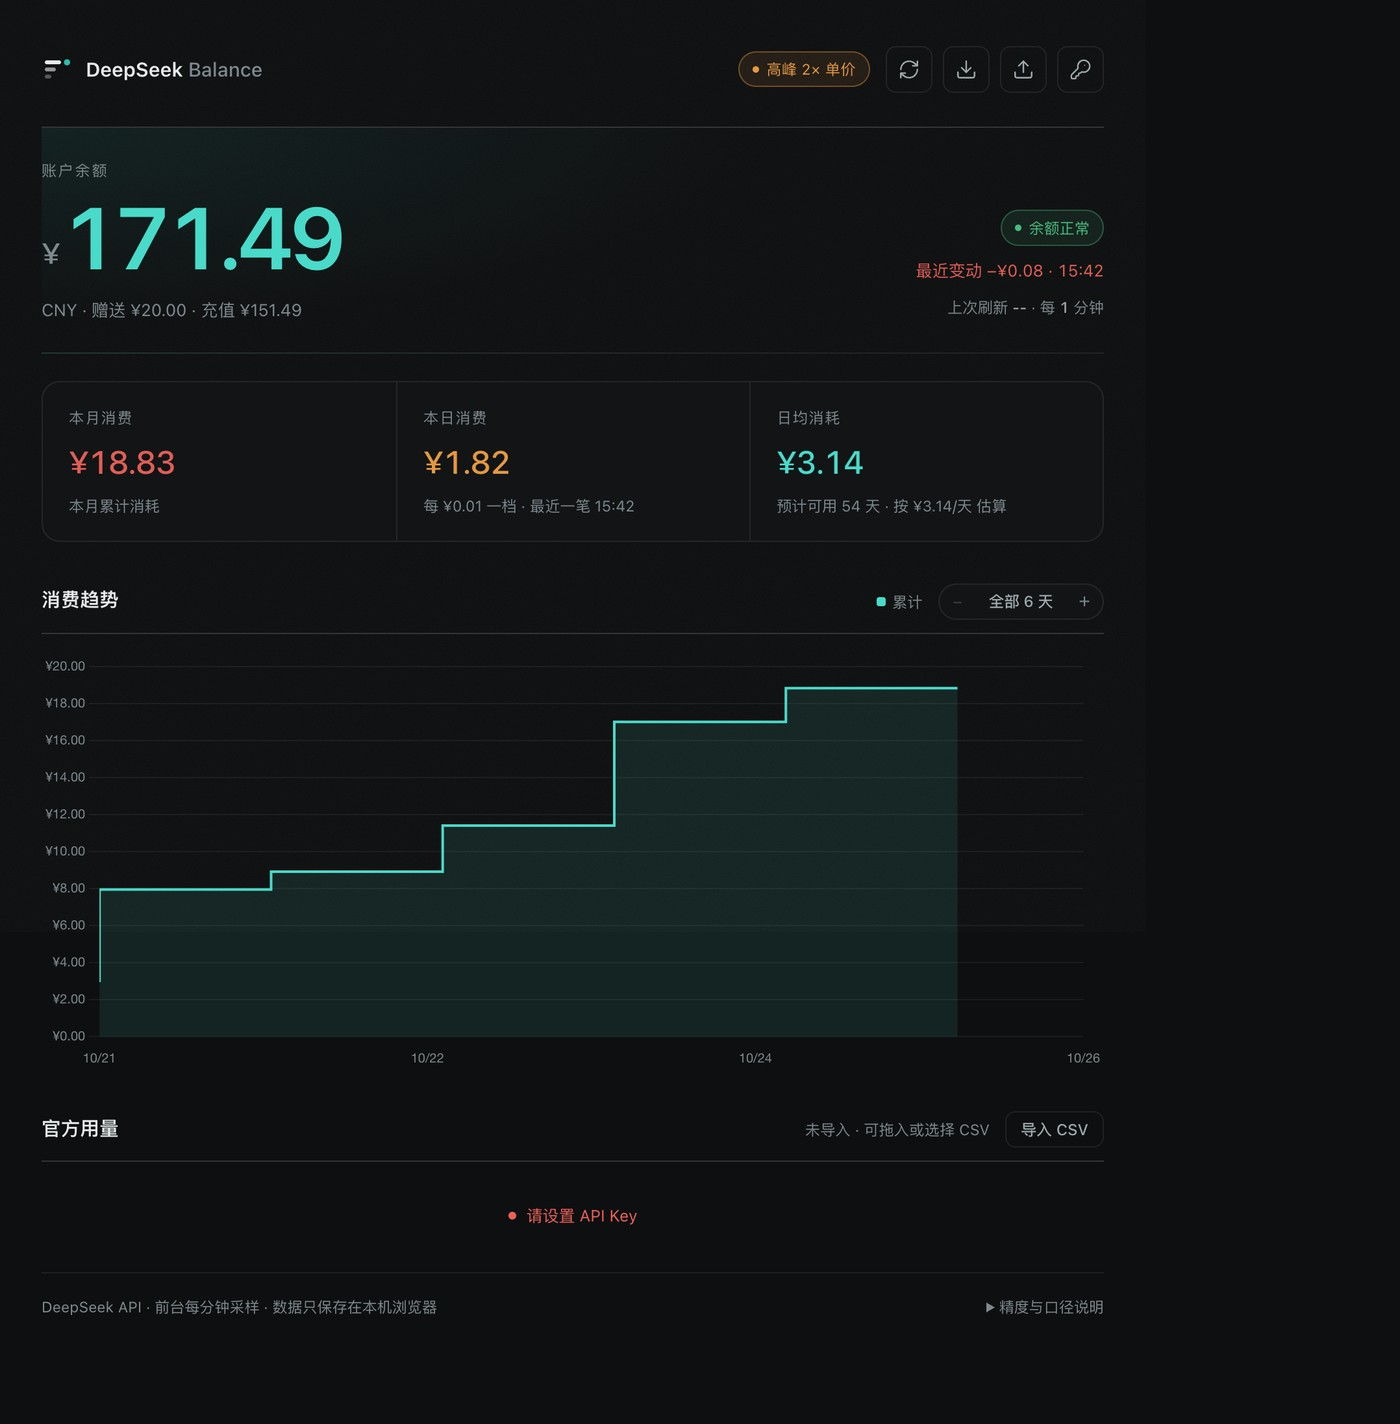
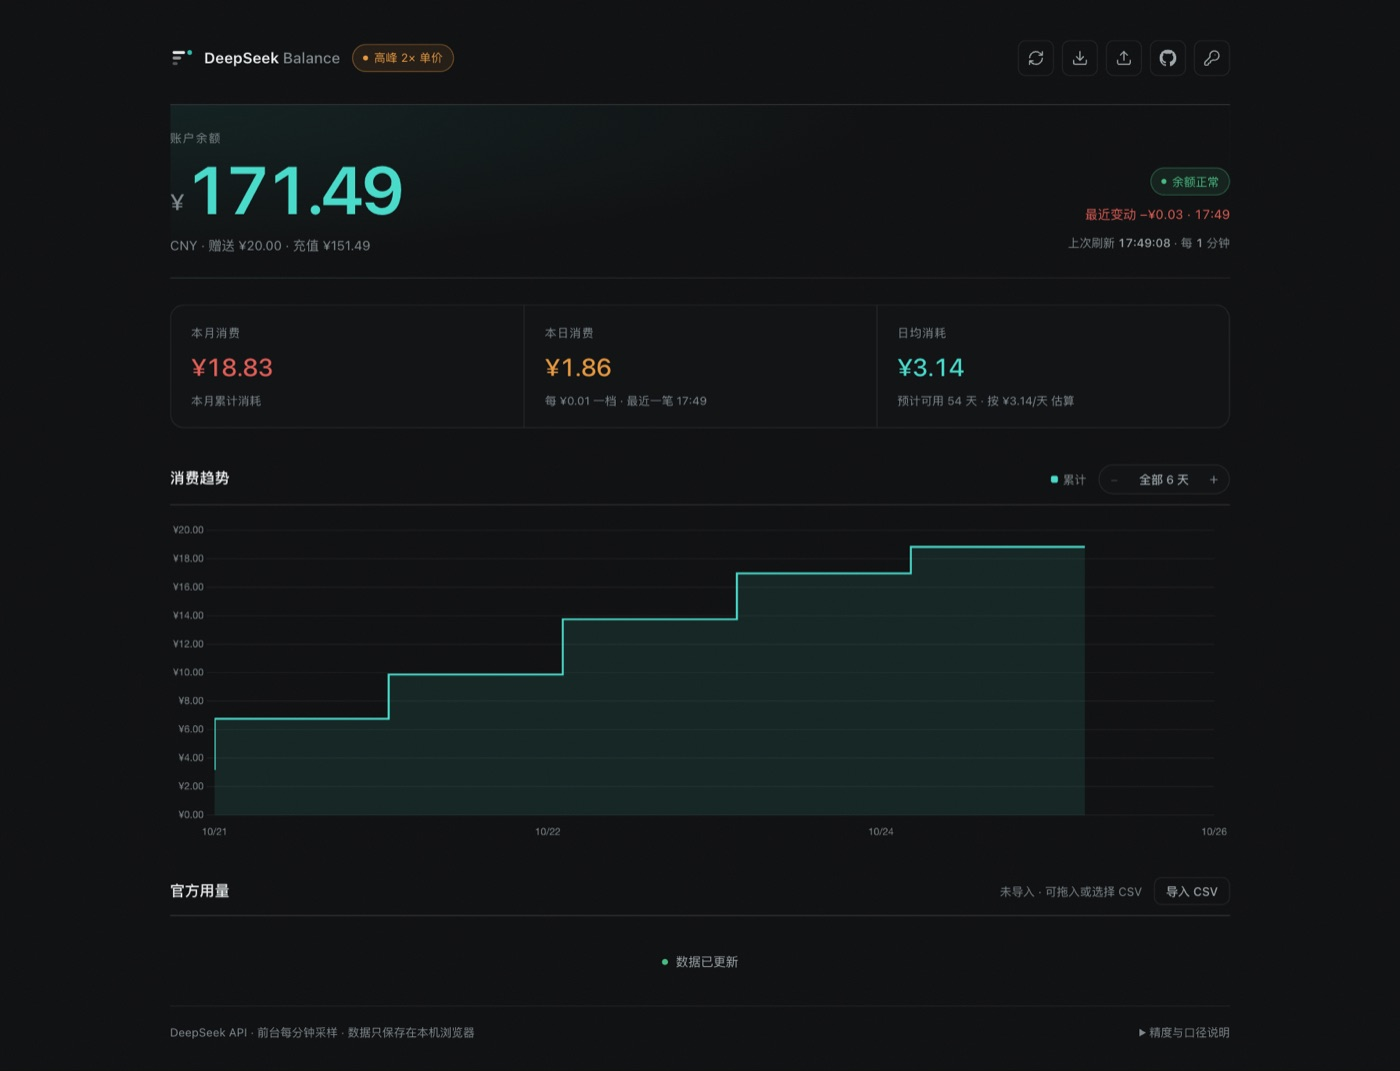
feat: 顶栏加入 GitHub 源码入口
- 导入按钮右侧加 octocat 图标链接，新标签页打开仓库
  （target=_blank + rel="noopener noreferrer"，附 aria-label 与键盘焦点样式）
- 图标增至 5 个后窄屏会溢出：顶栏左侧改为「品牌 + 时段徽章」一组、
  图标一组，图标组允许换行且始终贴右边缘；320px 下收紧品牌字号与间距，
  品牌与徽章仍保持同一行，顶栏不会变成三行
- 重拍 README 预览图，与新顶栏保持一致（1400×1071，100 KB）

diff --git a/index.html b/index.html
@@ -78,12 +78,14 @@
     flex-wrap: wrap;
     margin-bottom: clamp(18px, 3vw, 28px);
   }
+  .topbar__lead { display: flex; align-items: center; gap: 12px; flex-wrap: wrap; min-width: 0; }
   .brand { display: flex; align-items: center; gap: 10px; }
   .brand__mark { width: 24px; height: 24px; flex: none; color: var(--ink); }
   .brand__spark { fill: var(--accent); }
   .brand__name { font-size: 0.95rem; font-weight: 600; letter-spacing: 0.01em; }
   .brand__suffix { color: var(--ink-3); font-weight: 500; }
-  .topbar__actions { display: flex; align-items: center; gap: 8px; }
+  /* 图标多了以后窄屏放不下：允许换行，并始终贴着右边缘，别把按钮挤出屏幕 */
+  .topbar__actions { display: flex; align-items: center; justify-content: flex-end; gap: 8px; flex-wrap: wrap; margin-left: auto; }
 
   .ibtn {
     display: inline-flex;
@@ -102,6 +104,8 @@
   }
   .ibtn svg { width: 17px; height: 17px; }
   .ibtn:hover { color: var(--ink); border-color: var(--line-2); background: var(--surface); }
+  .ibtn--link { text-decoration: none; }
+  .ibtn--link:focus-visible { outline: 2px solid var(--accent); outline-offset: 2px; }
   .ibtn:active { transform: translateY(1px); }
   .ibtn.is-busy svg { animation: spin 900ms linear infinite; }
   @media (pointer: coarse) { .ibtn { width: 44px; height: 44px; } }
@@ -117,7 +121,6 @@
     letter-spacing: 0.02em;
     color: var(--ink-2);
     white-space: nowrap;
-    margin-right: 4px;
   }
   .peak::before { content: ""; width: 5px; height: 5px; border-radius: 50%; background: currentColor; }
   .peak--on { color: var(--amber); border-color: rgba(232, 163, 61, 0.38); background: rgba(232, 163, 61, 0.1); }
@@ -654,6 +657,14 @@
     .alert-row .btn { flex: 1 1 auto; }
   }
 
+  /* 320px 这一档：品牌与时段徽章挤在一行，避免顶栏变成三行 */
+  @media (max-width: 400px) {
+    .topbar { gap: 10px; }
+    .topbar__lead { gap: 6px; }
+    .brand__name { font-size: 0.9rem; }
+    .peak { padding: 4px 8px; font-size: 0.7rem; }
+  }
+
   @media (prefers-reduced-motion: reduce) {
     *, *::before, *::after {
       animation-duration: 0.001ms !important;
@@ -700,17 +711,19 @@
 
 <div class="shell">
   <header class="topbar">
-    <div class="brand">
-      <svg class="brand__mark" viewBox="0 0 24 24" aria-hidden="true">
-        <rect x="2.5" y="5" width="12.5" height="3" rx="1.5" fill="currentColor"></rect>
-        <rect x="2.5" y="10.5" width="8.5" height="3" rx="1.5" fill="currentColor" opacity=".6"></rect>
-        <rect x="2.5" y="16" width="5" height="3" rx="1.5" fill="currentColor" opacity=".32"></rect>
-        <circle class="brand__spark" cx="19.6" cy="6.5" r="2.4"></circle>
-      </svg>
-      <span class="brand__name">DeepSeek <span class="brand__suffix">Balance</span></span>
+    <div class="topbar__lead">
+      <div class="brand">
+        <svg class="brand__mark" viewBox="0 0 24 24" aria-hidden="true">
+          <rect x="2.5" y="5" width="12.5" height="3" rx="1.5" fill="currentColor"></rect>
+          <rect x="2.5" y="10.5" width="8.5" height="3" rx="1.5" fill="currentColor" opacity=".6"></rect>
+          <rect x="2.5" y="16" width="5" height="3" rx="1.5" fill="currentColor" opacity=".32"></rect>
+          <circle class="brand__spark" cx="19.6" cy="6.5" r="2.4"></circle>
+        </svg>
+        <span class="brand__name">DeepSeek <span class="brand__suffix">Balance</span></span>
+      </div>
+      <span class="peak peak--off" id="peakBadge" title="官方：高峰 = 北京时间周一至周五 09:00-12:00 / 14:00-18:00（不含法定节假日），空闲价为高峰的一半">时段</span>
     </div>
     <div class="topbar__actions">
-      <span class="peak peak--off" id="peakBadge" title="官方：高峰 = 北京时间周一至周五 09:00-12:00 / 14:00-18:00（不含法定节假日），空闲价为高峰的一半">时段</span>
       <button class="ibtn" id="refreshBtn" onclick="manualRefresh()" title="立即刷新余额" aria-label="立即刷新余额">
         <svg viewBox="0 0 24 24" fill="none" stroke="currentColor" stroke-width="1.7" stroke-linecap="round" stroke-linejoin="round" aria-hidden="true"><path d="M3 12a9 9 0 0 1 15-6.7L21 8"></path><path d="M21 3v5h-5"></path><path d="M21 12a9 9 0 0 1-15 6.7L3 16"></path><path d="M3 21v-5h5"></path></svg>
       </button>
@@ -721,6 +734,10 @@
         <svg viewBox="0 0 24 24" fill="none" stroke="currentColor" stroke-width="1.7" stroke-linecap="round" stroke-linejoin="round" aria-hidden="true"><path d="M21 15v4a2 2 0 0 1-2 2H5a2 2 0 0 1-2-2v-4"></path><path d="M17 8l-5-5-5 5"></path><path d="M12 3v12"></path></svg>
       </button>
       <input type="file" id="importFile" accept="application/json" hidden onchange="importHistory(this)">
+      <a class="ibtn ibtn--link" href="https://github.com/Lizhenghe-Chen/deepseek-balance-dashboard" target="_blank" rel="noopener noreferrer"
+         title="项目源码（GitHub）" aria-label="项目源码（GitHub，在新标签页打开）">
+        <svg viewBox="0 0 16 16" fill="currentColor" aria-hidden="true"><path d="M8 0C3.58 0 0 3.58 0 8c0 3.54 2.29 6.53 5.47 7.59.4.07.55-.17.55-.38 0-.19-.01-.82-.01-1.49-2.01.37-2.53-.49-2.69-.94-.09-.23-.48-.94-.82-1.13-.28-.15-.68-.52-.01-.53.63-.01 1.08.58 1.23.82.72 1.21 1.87.87 2.33.66.07-.52.28-.87.51-1.07-1.78-.2-3.64-.89-3.64-3.95 0-.87.31-1.59.82-2.15-.08-.2-.36-1.02.08-2.12 0 0 .67-.21 2.2.82.64-.18 1.32-.27 2-.27.68 0 1.36.09 2 .27 1.53-1.04 2.2-.82 2.2-.82.44 1.1.16 1.92.08 2.12.51.56.82 1.27.82 2.15 0 3.07-1.87 3.75-3.65 3.95.29.25.54.73.54 1.48 0 1.07-.01 1.93-.01 2.2 0 .21.15.46.55.38A8.012 8.012 0 0 0 16 8c0-4.42-3.58-8-8-8z"></path></svg>
+      </a>
       <button class="ibtn" onclick="openSettings()" title="API Key 设置" aria-label="API Key 设置">
         <svg viewBox="0 0 24 24" fill="none" stroke="currentColor" stroke-width="1.7" stroke-linecap="round" stroke-linejoin="round" aria-hidden="true"><path d="M2.6 17.4A2 2 0 0 0 2 18.8V21a1 1 0 0 0 1 1h3a1 1 0 0 0 1-1v-1a1 1 0 0 1 1-1h1a1 1 0 0 0 1-1v-1a1 1 0 0 1 1-1h.2a2 2 0 0 0 1.4-.6l.8-.8a6.5 6.5 0 1 0-4-4z"></path><circle cx="16.5" cy="7.5" r=".6" fill="currentColor" stroke="none"></circle></svg>
       </button>
